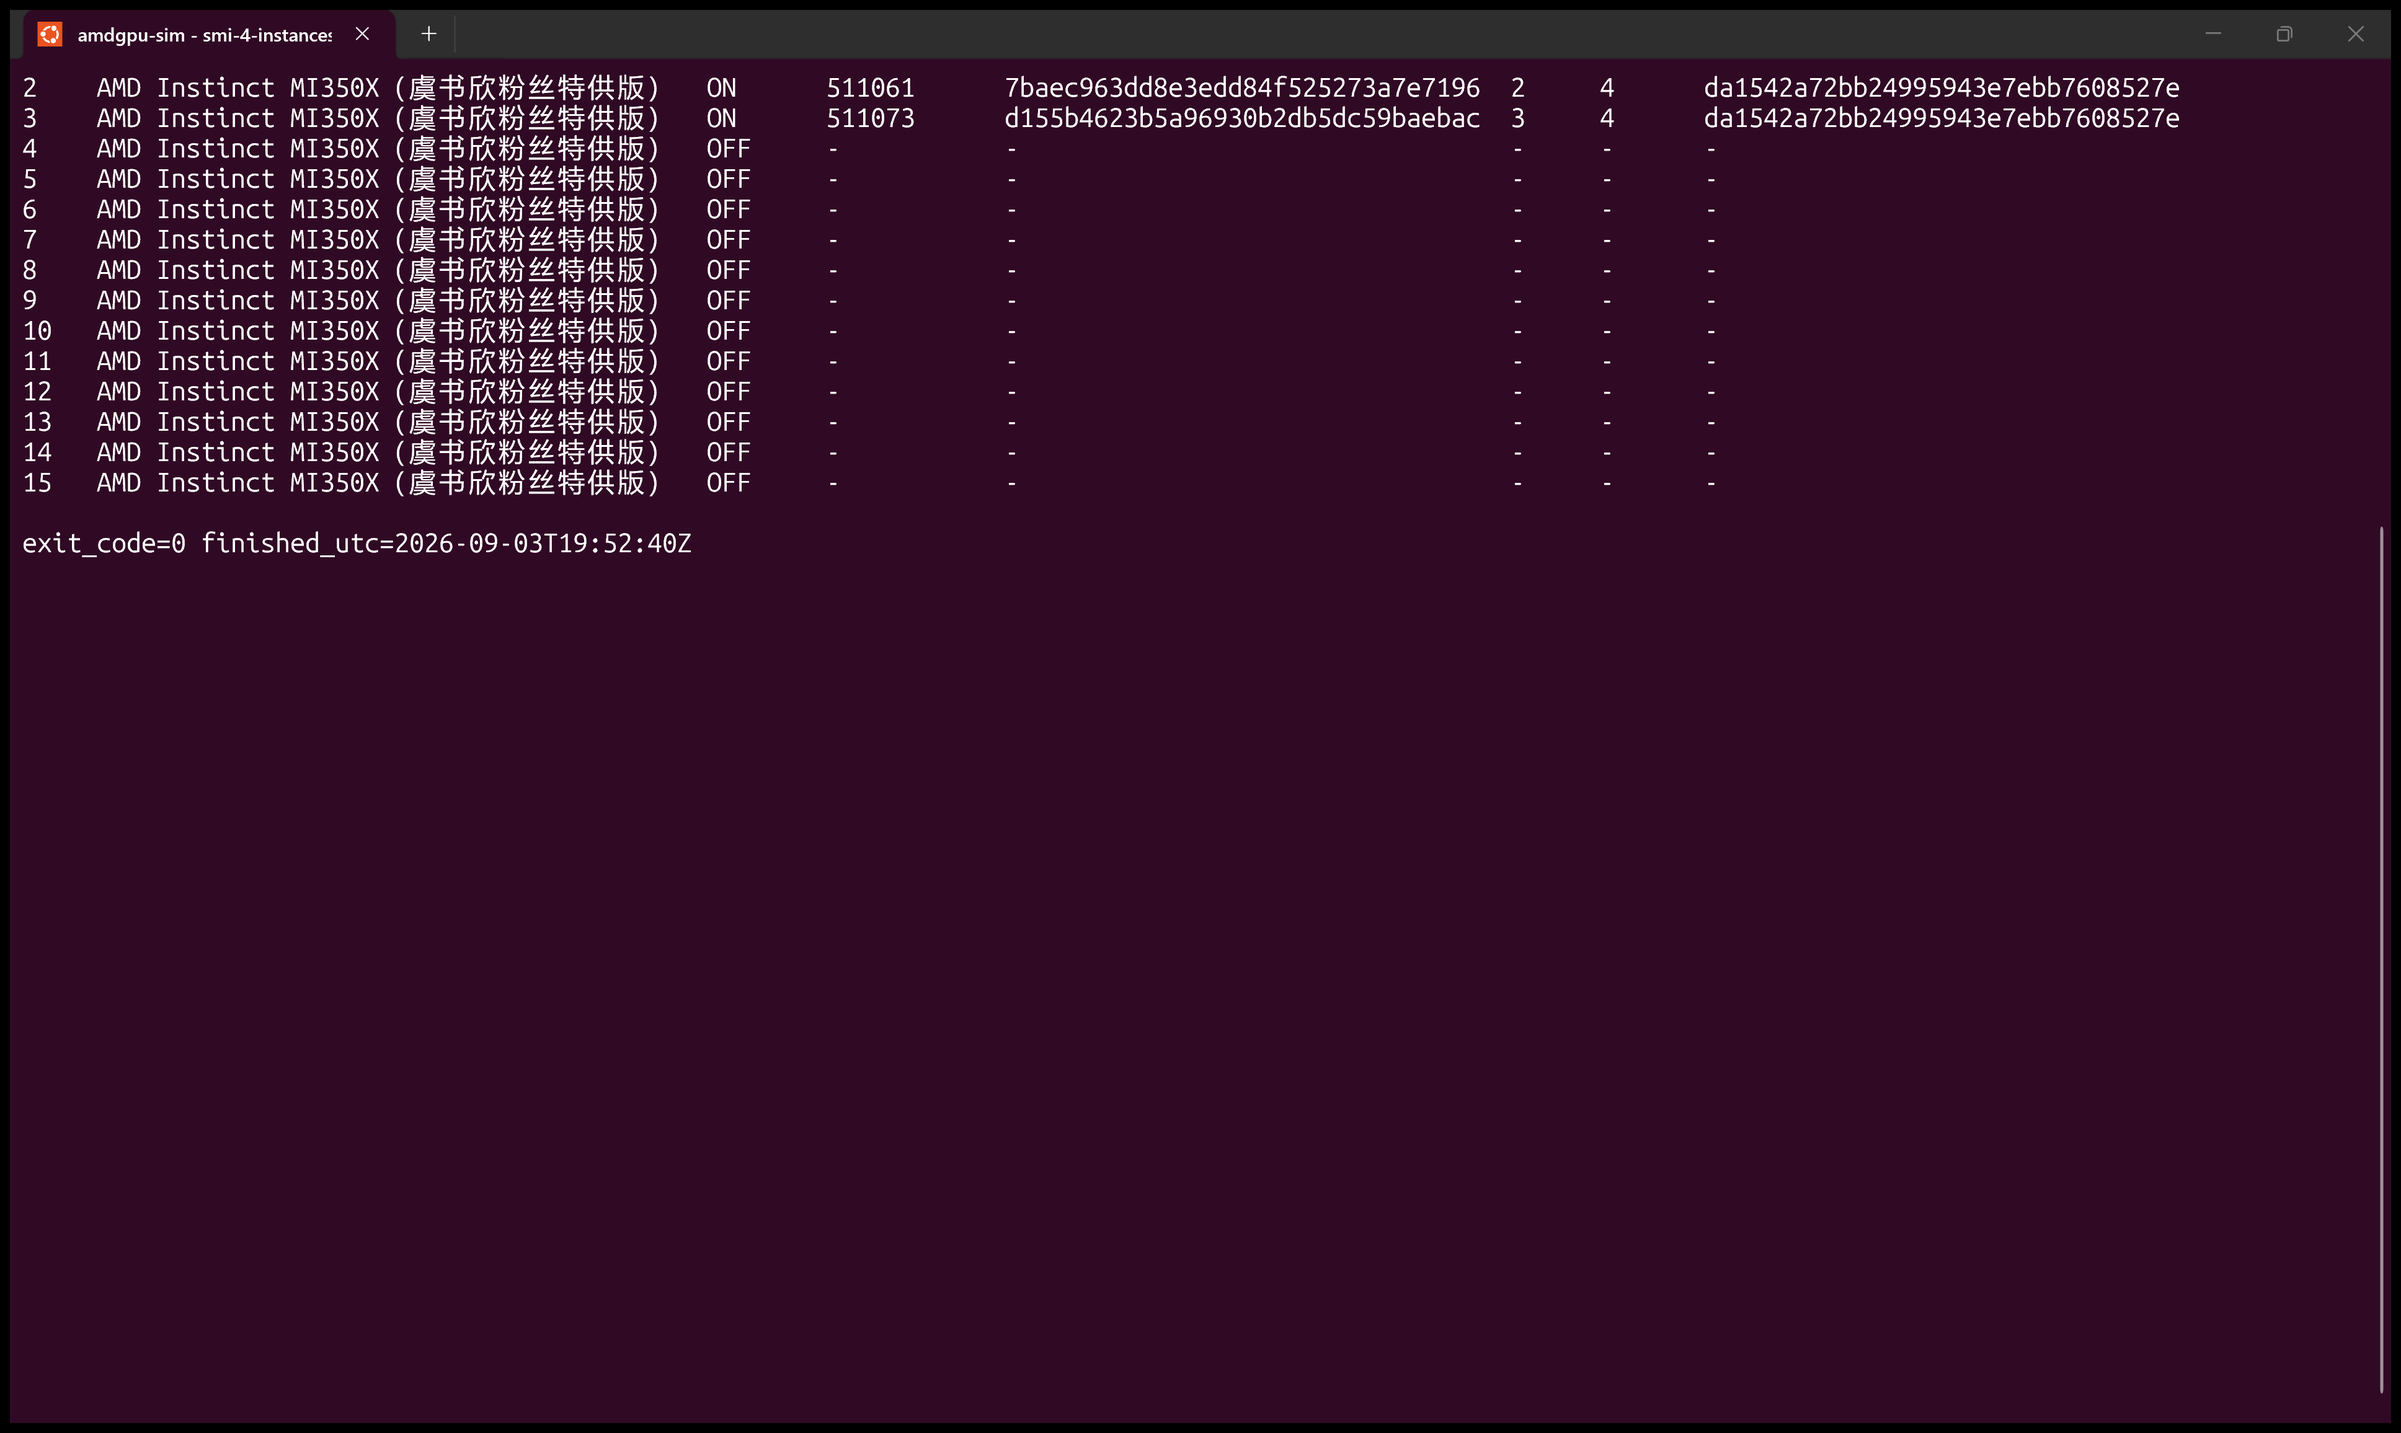
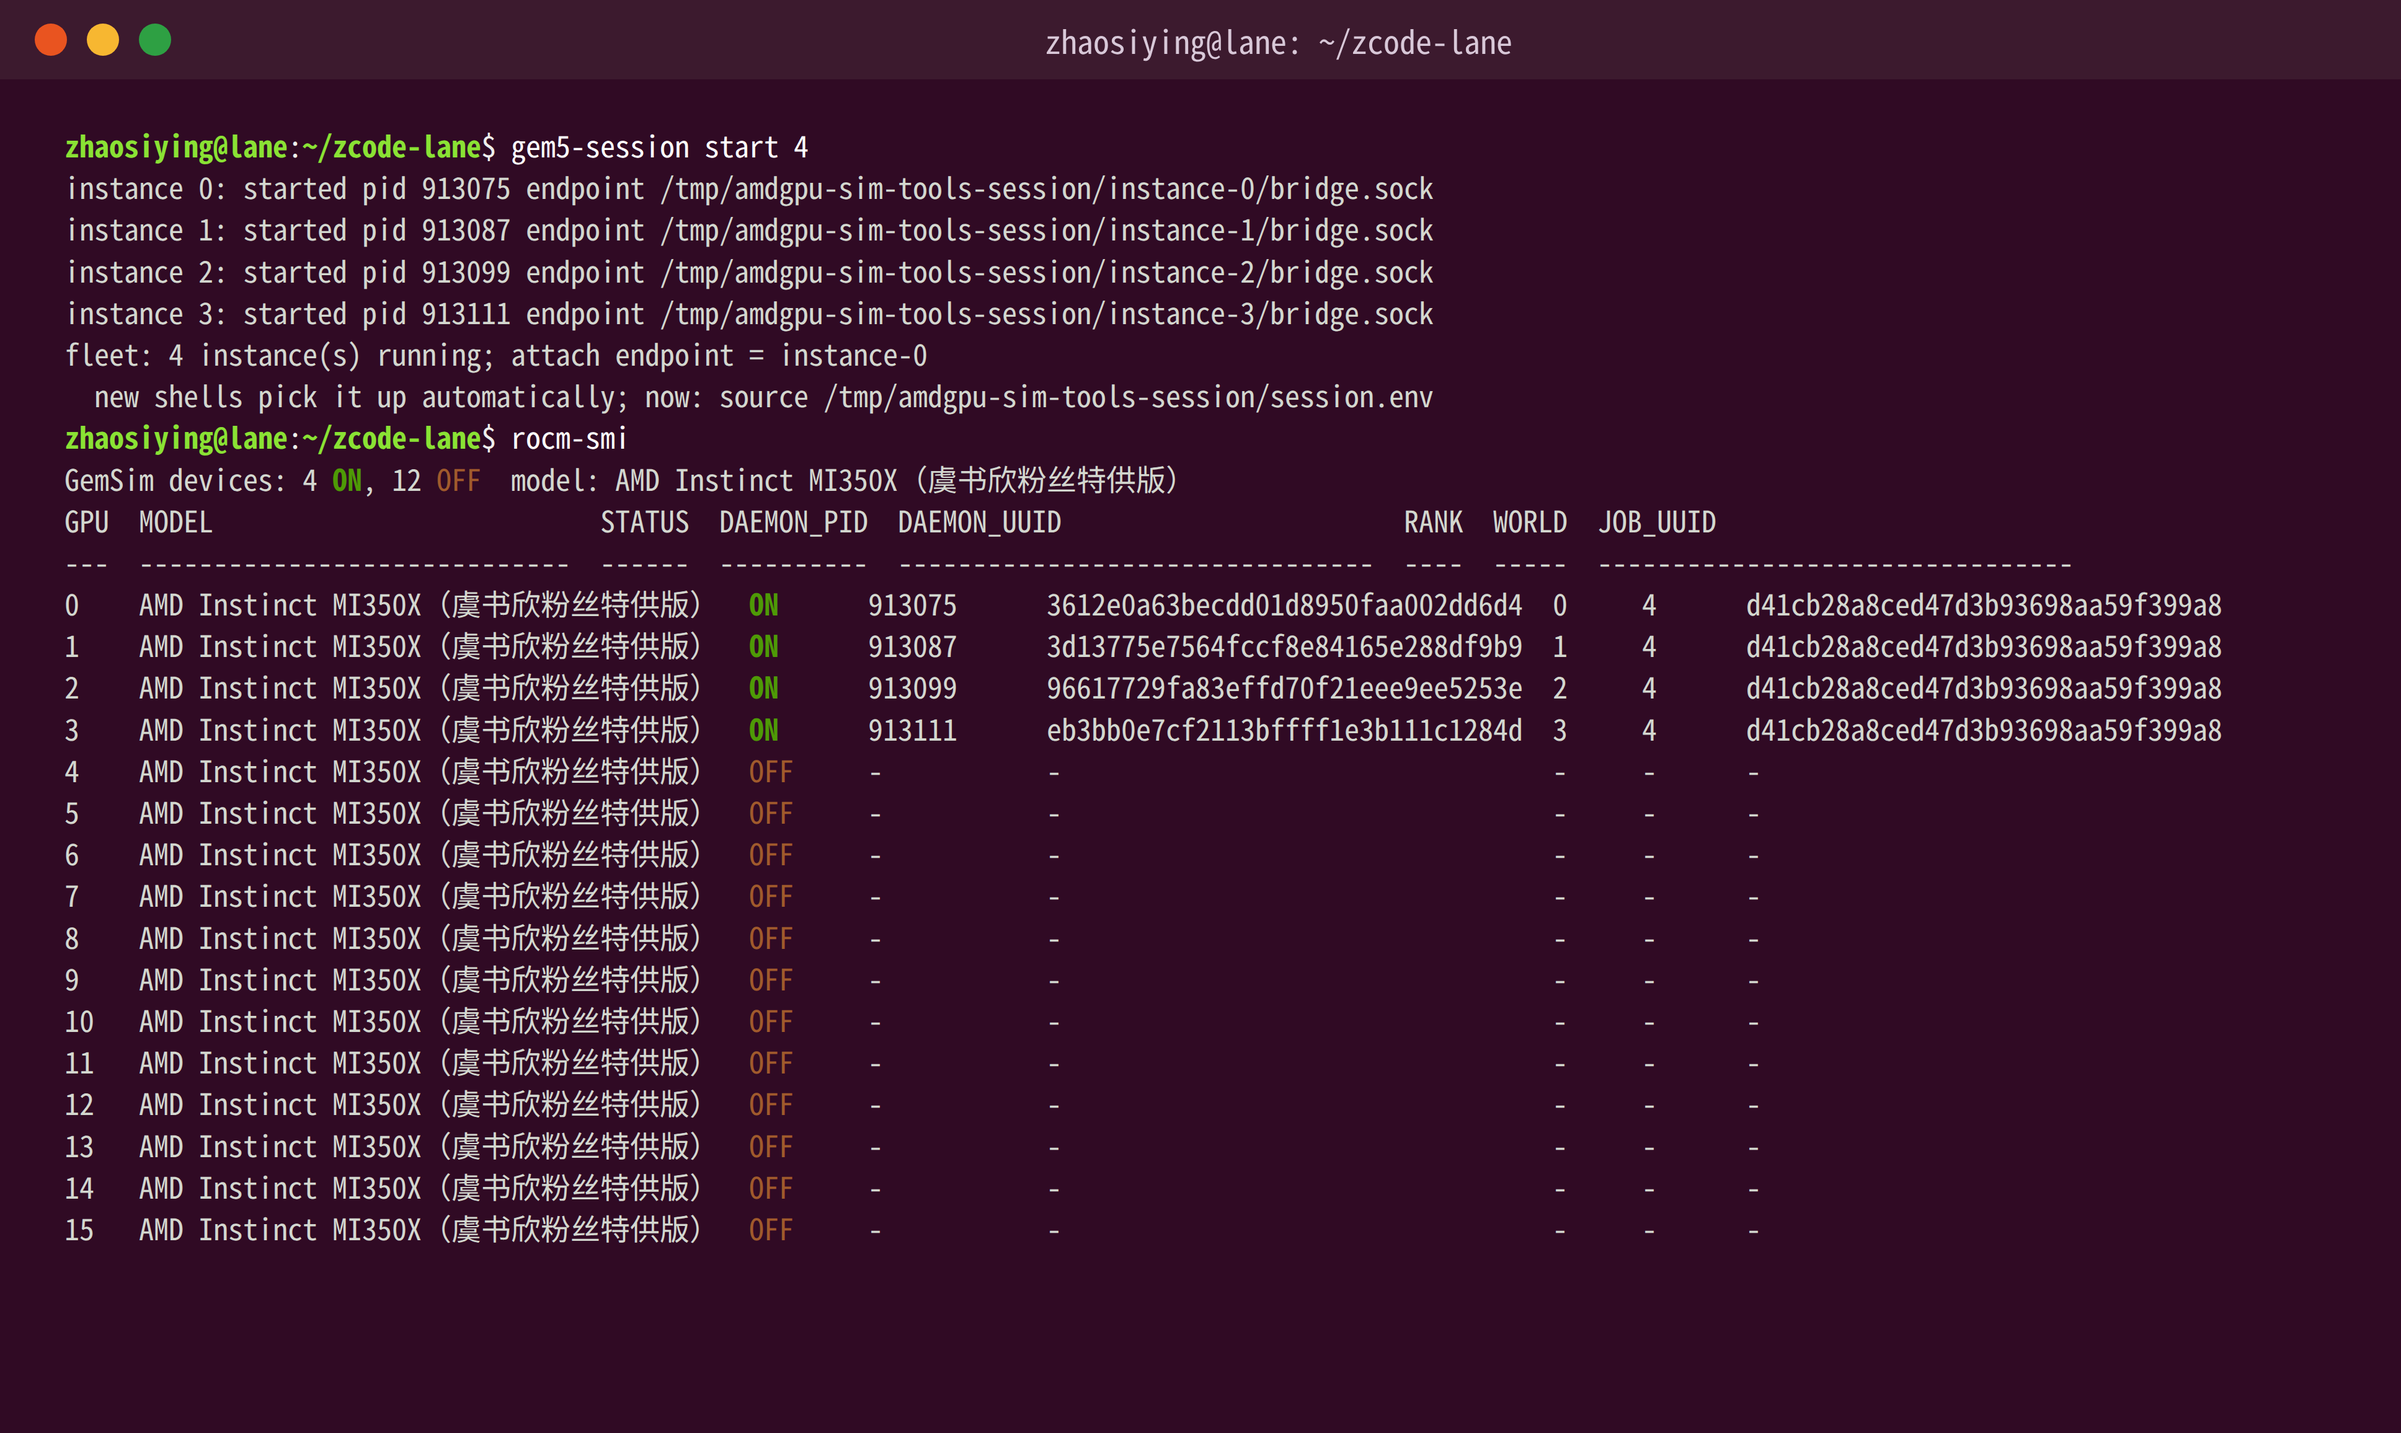
docs: keep README limits current and sync the re-captured smi shots
The known-limits list now carries only still-open items (hybrid serial
stepping, CCL perf, layer-gate memory, simTicks scope) under a plain
"Known limitations" heading; the two fixed defects (KMT scratch
admission race, vLLM 0.8B chunked-prefill shape) move to a dedicated
"Fixed upstream defects (record)" section instead of being listed as
struck-through limits. The README copies of the rocm-smi before/after
screenshots are replaced with the re-captured renders (poll confirms
4/4 instances ON before capture), matching the blog versions.

Checkpoint-ID: CP-0171
Goal-ID: GSIM-001
Plan-Revision: 25
Source-Lock-SHA256: dbe15dae4f3d385c36fbd263afd40d764c4fcd0de5f2992ed2b3a7e78dccb0bf
Evidence-Manifest-SHA256: 8410c2913def2b66bbb73977ff32bdd75f12272fd4516179b3bbf7fbce22d437
Change-Kind: docs
Baseline-Commit: 7472f5c9e67645f4ae7a986189a69174155f7e31

diff --git a/README_EN.md b/README_EN.md
@@ -123,16 +123,18 @@ aenv exec <sandbox-id> -- bash tools/agentenv/vm_run_sglang.sh   # in-sandbox SG
 
 Strategy: upstream wheels preinstalled in the image; in-house sources (gem5/runtime/ROCr stage) compiled host-side and published with one key; sandboxes stay isolated from each other (see `tools/agentenv/`).
 
-## Known limitations (stated honestly)
+## Fixed upstream defects (record)
 
-1. **KMT scratch-admission race (FIXED, gem5 `61196d8cb`)**: the root cause was gem5 asserting exclusive observation of the host-owned inactive-signal mailbox (publish the code, then require the readback to still hold it) — on slow hosts ROCr's busy-polling handler consumed the request, installed scratch and stored 0 inside the write-to-readback window, which admission misread as a delivery failure before closing the client. Admission no longer interprets mailbox values (readback is a reachability probe only, publication is idempotent, unmet scratch defers unconditionally; teardown arrives via the KMT destroy path); the regression trio is green on the patched build. Forensics: `artifacts/blog-perf-2026-09/results/L0-attempt2-stall-forensics/`.
-2. **vLLM 0.8B chunked-prefill shape defect (FIXED, gem5 `62d197403` + `96089d0f3`)**: the root cause was five independent gem5 defects stacking on the skinny split-K GEMM path (`wvSplitKrc`, enabled only when m%16==0) — (1) the SGPR allocation granularity for gfx942/950 descriptors is 16 SGPRs and the old code halved it (under-reservation: panics or sibling-wave SGPR overlap); (2) the AGPR alias window was never part of the wave's VGPR reservation; (3) the kernel descriptor's `accum_offset` is not a unified-file alias base (the alias base is now derived from the wave's own VGPR region, with the AGPR demand recovered from the code object metadata); (4) MAI acc-operand encodings (`acc[n]` = `REG_VGPR_MIN+n`) were misread and `v_dot2c_f32_f16` was unimplemented; (5) the SGPR admission check missed the SIMD multiplier (a 16-wave workgroup x 208 SGPRs was compared against one SIMD's 2048 although waves spread over all four SIMD files). After the fixes vLLM's own `wvSplitKrc` wrapper passes bit-close (zero NaN) at 16x64x512 for both CuCount=1 and the full CuCount=256 grid, **and the ctx16 engine lane passes its token gate bit-exact end to end** (EV-zcode-0168); the probe family and the full-LDS regression stay green (`tools/mfma_isa_test/`). The `SAGR_VLLM_CONTEXT_LENGTH` knob is kept.
-3. The hybrid CTA executor's functional stepping is serial (~3–4 ms/WG, does not scale with CU count); decode memoization and light_stats gating are on the backlog.
-4. TP>1 CCL has correctness/stability fixes only, no performance work.
-5. The layer gate's diffing hooks accumulate memory; a 24-layer comparison gets OOM-killed at layer 19 (all covered layers pass).
-6. simTicks under functional-fast/hybrid must not be used for timing conclusions (the identity banner records this per run).
+1. **KMT scratch-admission race (gem5 `61196d8cb`)**: the root cause was gem5 asserting exclusive observation of the host-owned inactive-signal mailbox (publish the code, then require the readback to still hold it) — on slow hosts ROCr's busy-polling handler consumed the request, installed scratch and stored 0 inside the write-to-readback window, which admission misread as a delivery failure before closing the client. Admission no longer interprets mailbox values (readback is a reachability probe only, publication is idempotent, unmet scratch defers unconditionally; teardown arrives via the KMT destroy path); the regression trio is green on the patched build. Forensics: `artifacts/blog-perf-2026-09/results/L0-attempt2-stall-forensics/`.
+2. **vLLM 0.8B chunked-prefill shape defect (gem5 `62d197403` + `96089d0f3`)**: the root cause was five independent gem5 defects stacking on the skinny split-K GEMM path (`wvSplitKrc`, enabled only when m%16==0) — (1) the SGPR allocation granularity for gfx942/950 descriptors is 16 SGPRs and the old code halved it (under-reservation: panics or sibling-wave SGPR overlap); (2) the AGPR alias window was never part of the wave's VGPR reservation; (3) the kernel descriptor's `accum_offset` is not a unified-file alias base (the alias base is now derived from the wave's own VGPR region, with the AGPR demand recovered from the code object metadata); (4) MAI acc-operand encodings (`acc[n]` = `REG_VGPR_MIN+n`) were misread and `v_dot2c_f32_f16` was unimplemented; (5) the SGPR admission check missed the SIMD multiplier (a 16-wave workgroup x 208 SGPRs was compared against one SIMD's 2048 although waves spread over all four SIMD files). After the fixes vLLM's own `wvSplitKrc` wrapper passes bit-close (zero NaN) at 16x64x512 for both CuCount=1 and the full CuCount=256 grid, **and the ctx16 engine lane passes its token gate bit-exact end to end** (EV-zcode-0168); the probe family and the full-LDS regression stay green (`tools/mfma_isa_test/`). The `SAGR_VLLM_CONTEXT_LENGTH` knob is kept.
+3. **Recent semantic fixes** (gem5 `233dc032a` / runtime `bc6f497`; details in blog §10.7): the hybrid screen now fails closed on LDS and wave-slot demands (large-group-segment kernels fall back to the timing path instead of panicking); s_barrier also waits for the participating waves' outstanding LDS traffic (SI/CI semantics, accepted by the full-LDS serialization capsule); `SAGR_MANAGED_STARTUP_TIMEOUT_MS` widens the managed-session startup window on slow hosts. The correctness suites support offloading to a slow machine — cross-host bit-identical results (operator suite and the 0.8B engine grid) have been verified this way.
 
-Recent semantic fixes (gem5 `233dc032a` / runtime `bc6f497`; details in blog §10.7): the hybrid screen now fails closed on LDS and wave-slot demands (large-group-segment kernels fall back to the timing path instead of panicking); s_barrier also waits for the participating waves' outstanding LDS traffic (SI/CI semantics, accepted by the full-LDS serialization capsule); `SAGR_MANAGED_STARTUP_TIMEOUT_MS` widens the managed-session startup window on slow hosts. The correctness suites support offloading to a slow machine — cross-host bit-identical results (operator suite and the 0.8B engine grid) have been verified this way.
+## Known limitations
+
+1. The hybrid CTA executor's functional stepping is serial (~3–4 ms/WG, does not scale with CU count); decode memoization and light_stats gating are on the backlog.
+2. TP>1 CCL has correctness/stability fixes only, no performance work.
+3. The layer gate's diffing hooks accumulate memory; a 24-layer comparison gets OOM-killed at layer 19 (all covered layers pass).
+4. simTicks under functional-fast/hybrid must not be used for timing conclusions (the identity banner records this per run).
 
 ## Provenance and governance
 

diff --git a/README.md b/README.md
@@ -122,16 +122,18 @@ aenv exec <sandbox-id> -- bash tools/agentenv/vm_run_sglang.sh   # 沙箱内 SGL
 
 策略：上游 wheel 预装镜像；自研源码（gem5/runtime/ROCr stage）host 侧编译 + 一键发布；多沙箱互不干扰（详见 `tools/agentenv/`）。
 
-## 已知限制（如实）
+## 已修复的上游缺陷（记录）
 
-1. **~~KMT scratch 准入竞态~~（已修复，gem5 `61196d8cb`）**：根因是 gem5 对宿主拥有的 inactive-signal mailbox 做越权断言（写 1 后要求回读仍为 1）——慢速配置下 ROCr 忙轮询线程在写-读窗口内完成"消费→装 scratch→写 0"，被误判为投递失败进而关连接、双侧自旋。修复后准入不再解读 mailbox 取值（回读仅作可达性探测、发布幂等、未满足一律延期，teardown 经 KMT destroy 路径）；修复构建上回归三件套全绿。复现材料：`artifacts/blog-perf-2026-09/results/L0-attempt2-stall-forensics/`。
-2. **vLLM 0.8B 分块 prefill 形状缺陷（已修复，gem5 `62d197403` + `96089d0f3`）**：根因为 skinny split-K GEMM（`wvSplitKrc`，m%16==0 才启用）路径上五个独立的 gem5 缺陷叠加——①SGPR 分配粒度（gfx942/950 descriptor 按 16-SGPR granule 编码，老代码 /2 欠预约：panic 或共驻 wave SGPR 重叠）；②AGPR 别名窗口未并入 wave 的 VGPR 预约；③kernel descriptor 的 `accum_offset` 不能当统一文件别名基址（别名基址改从 wave 自身 VGPR 区派生，AGPR 需求从 code object 元数据恢复）；④MAI 指令 acc 操作数编码（`acc[n]` = `REG_VGPR_MIN+n`）被误读、`v_dot2c_f32_f16` 未实现；⑤SGPR 准入检查漏乘 SIMD 数（16 波 WG×208=3328 误对照单 SIMD 2048，真实分摊 4 SIMD 每侧 832）。修复后 vLLM 自带 `wvSplitKrc` 包装在 16×64×512 形状、CuCount=1 与 256 全网格双判决 `match=true`（零 NaN），**且 ctx16 引擎 lane 端到端 token gate bit-exact PASS**（EV-zcode-0168）；探针族与 full-LDS 回归全绿（`tools/mfma_isa_test/`）。`SAGR_VLLM_CONTEXT_LENGTH` 旋钮保留。
-3. hybrid CTA 的功能 WG 步进是串行的（~3–4 ms/WG，不随 CU 数扩展）；decode memoization 与 light_stats 门控在 backlog。
-4. TP>1 的 CCL 仅有正确性/稳定性修复，无性能优化。
-5. layer gate 的 diffing 钩子有内存累积，24 层比到第 19 层会被 OOM killer 终止（已覆盖层全部通过）。
-6. functional-fast/hybrid 模式 simTicks 不可用于时序结论（identity banner 强制登记）。
+1. **KMT scratch 准入竞态（gem5 `61196d8cb`）**：根因是 gem5 对宿主拥有的 inactive-signal mailbox 做越权断言（写 1 后要求回读仍为 1）——慢速配置下 ROCr 忙轮询线程在写-读窗口内完成"消费→装 scratch→写 0"，被误判为投递失败进而关连接、双侧自旋。修复后准入不再解读 mailbox 取值（回读仅作可达性探测、发布幂等、未满足一律延期、teardown 经 KMT destroy 路径）；修复构建上回归三件套全绿。复现材料：`artifacts/blog-perf-2026-09/results/L0-attempt2-stall-forensics/`。
+2. **vLLM 0.8B 分块 prefill 形状缺陷（gem5 `62d197403` + `96089d0f3`）**：根因为 skinny split-K GEMM（`wvSplitKrc`，m%16==0 才启用）路径上五个独立的 gem5 缺陷叠加——①SGPR 分配粒度（gfx942/950 descriptor 按 16-SGPR granule 编码，老代码 /2 欠预约：panic 或共驻 wave SGPR 重叠）；②AGPR 别名窗口未并入 wave 的 VGPR 预约；③kernel descriptor 的 `accum_offset` 不能当统一文件别名基址（别名基址改从 wave 自身 VGPR 区派生，AGPR 需求从 code object 元数据恢复）；④MAI 指令 acc 操作数编码（`acc[n]` = `REG_VGPR_MIN+n`）被误读、`v_dot2c_f32_f16` 未实现；⑤SGPR 准入检查漏乘 SIMD 数（16 波 WG×208=3328 误对照单 SIMD 2048，真实分摊 4 SIMD 每侧 832）。修复后 vLLM 自带 `wvSplitKrc` 包装在 16×64×512 形状、CuCount=1 与 256 全网格双判决 `match=true`（零 NaN），**且 ctx16 引擎 lane 端到端 token gate bit-exact PASS**（EV-zcode-0168）；探针族与 full-LDS 回归全绿（`tools/mfma_isa_test/`）。`SAGR_VLLM_CONTEXT_LENGTH` 旋钮保留。
+3. **近期语义修复**（gem5 `233dc032a` / runtime `bc6f497`，细节见博客 §十.7）：hybrid 筛选的 LDS/wave 槽资源 fail-closed（大 group-segment kernel 回落时序路径而非 panic）；s_barrier 现在同时等待参与 wave 的在飞 LDS 访问（SI/CI 语义，满-LDS 串行化胶囊验收）；`SAGR_MANAGED_STARTUP_TIMEOUT_MS` 为慢宿主放宽 managed-session 启动窗。正确性套件支持 offload 到慢机复验（operator 层与 0.8B 引擎四格的跨机逐字节一致已验证）。
 
-近期语义修复（均在 gem5 `233dc032a` / runtime `bc6f497`，细节见博客 §十.7）：hybrid 筛选的 LDS/wave 槽资源 fail-closed（大 group-segment kernel 回落时序路径而非 panic）；s_barrier 现在同时等待参与 wave 的在飞 LDS 访问（SI/CI 语义，满-LDS 串行化胶囊验收）；`SAGR_MANAGED_STARTUP_TIMEOUT_MS` 为慢宿主放宽 managed-session 启动窗。正确性套件支持 offload 到慢机复验（operator 层与 0.8B 引擎四格的跨机逐字节一致已验证）。
+## 已知限制
+
+1. hybrid CTA 的功能 WG 步进是串行的（~3–4 ms/WG，不随 CU 数扩展）；decode memoization 与 light_stats 门控在 backlog。
+2. TP>1 的 CCL 仅有正确性/稳定性修复，无性能优化。
+3. layer gate 的 diffing 钩子有内存累积，24 层比到第 19 层会被 OOM killer 终止（已覆盖层全部通过）。
+4. functional-fast/hybrid 模式 simTicks 不可用于时序结论（identity banner 强制登记）。
 
 ## 溯源与治理
 
